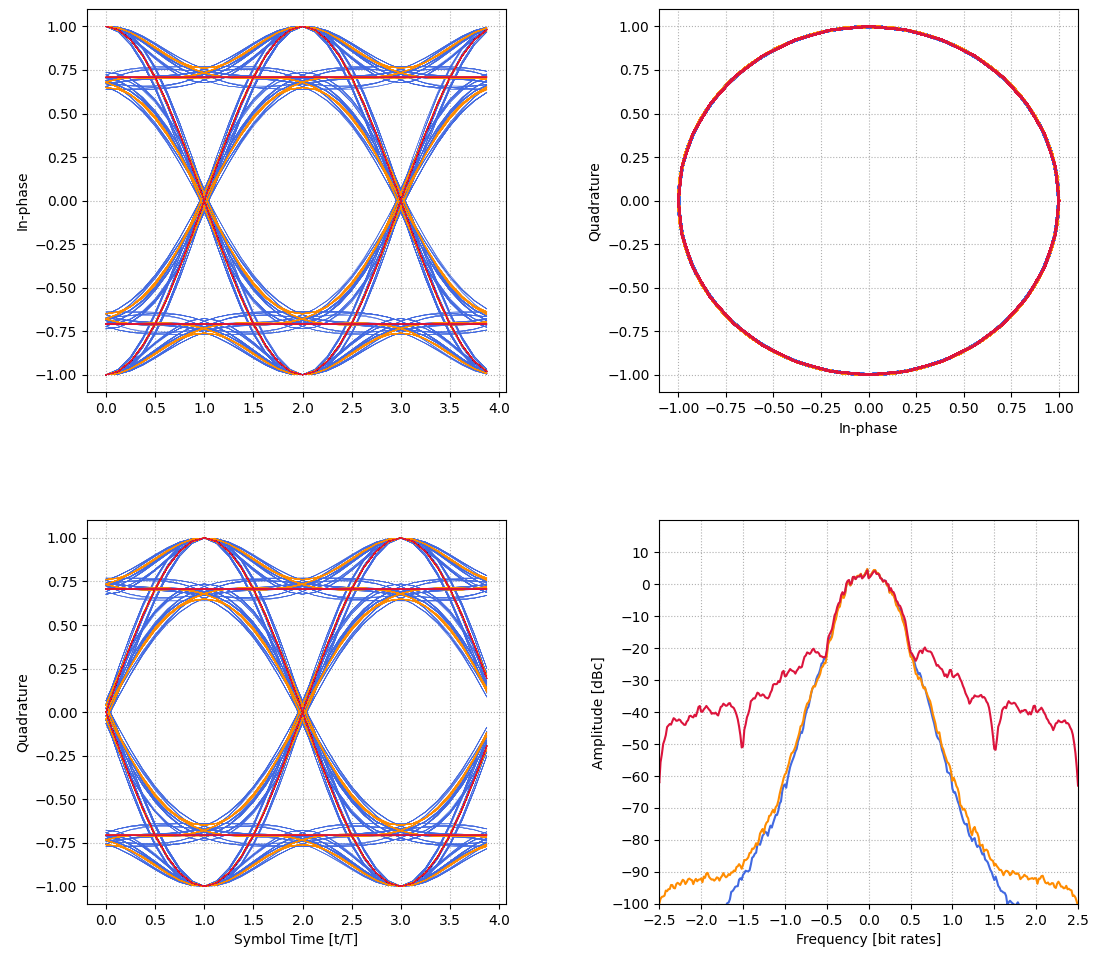
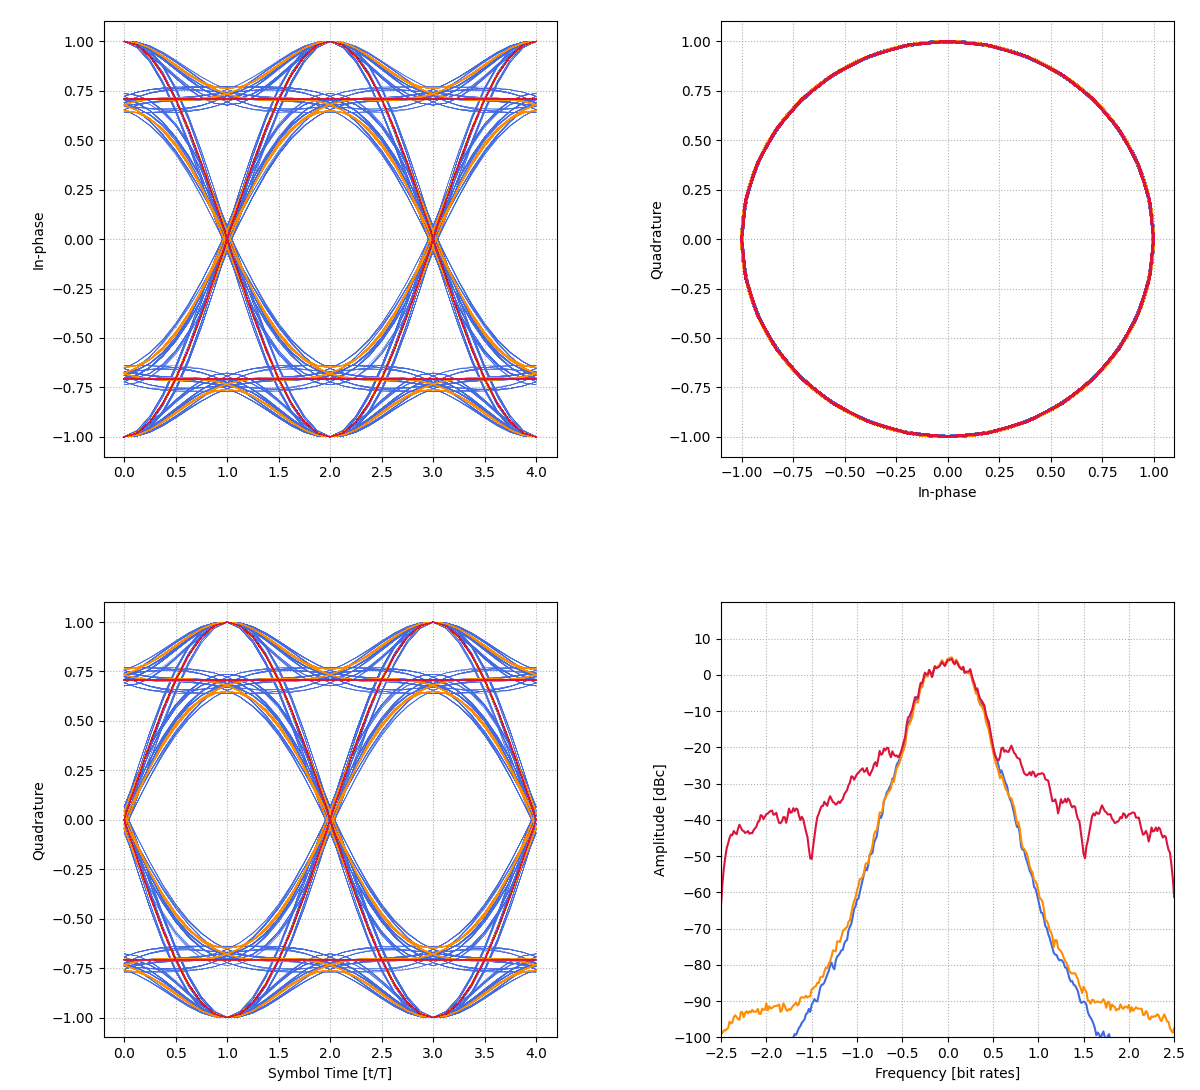
Eye now plotting t=4T sample.

diff --git a/examples/cpm_example.py b/examples/cpm_example.py
@@ -56,19 +56,17 @@ if __name__ == "__main__":
         )
 
         modulo = 4
-        q_symbol_offset = 0.0
         for i in range((normalized_time.size-1)//(sps*modulo)):
-            idx_start_i = i*sps*modulo
-            idx_start_q = idx_start_i + int(sps*q_symbol_offset)
+            idx_start = i*sps*modulo
             eye_real_ax.plot(
-                (normalized_time[idx_start_i:idx_start_i+sps*modulo]+0.0)%modulo,
-                modulated_signal.real[idx_start_i:idx_start_i+sps*modulo],
+                (normalized_time[idx_start:idx_start+sps*modulo+1]-normalized_time[idx_start]),
+                modulated_signal.real[idx_start:idx_start+sps*modulo+1],
                 linewidth=0.3,
                 color=color,
             )
             eye_imag_ax.plot(
-                (normalized_time[idx_start_q:idx_start_q+sps*modulo]-q_symbol_offset)%modulo,
-                modulated_signal.imag[idx_start_q:idx_start_q+sps*modulo],
+                (normalized_time[idx_start:idx_start+sps*modulo+1]-normalized_time[idx_start]),
+                modulated_signal.imag[idx_start:idx_start+sps*modulo+1],
                 linewidth=0.3,
                 color=color,
             )
